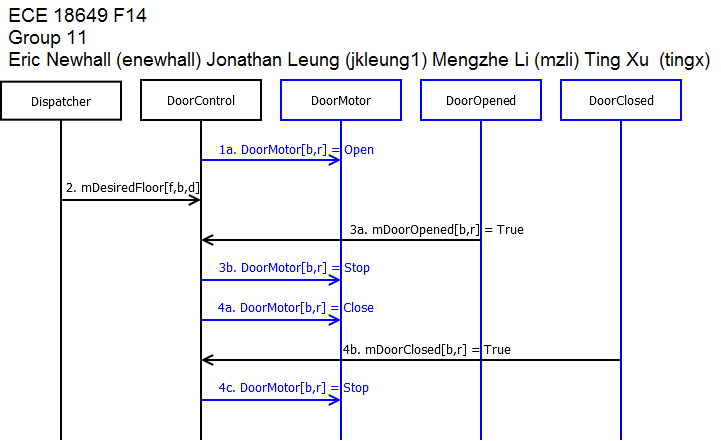
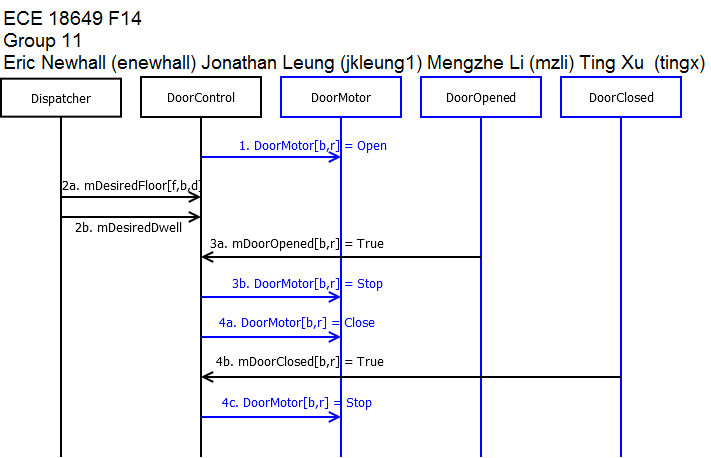
Update scenario 9A to send mDwellTime.

Changed region(s): [[0.0, 0.0, 0.9902, 1.0]]

diff --git a/portfolio/scen_sd/scen_sd.html b/portfolio/scen_sd/scen_sd.html
@@ -523,7 +523,7 @@ doors close on a hallway. </h3>
 <h3> Scenario: </h3>
 <ol start="1" type="1">
   <li>Door Opening </li>
-  <li>Car recieves desired floor </li>
+  <li>Car recieves desired floor &amp; desired dwell</li>
   <li>Door Open </li>
   <li>Door Closes </li>
 </ol>
@@ -535,7 +535,7 @@ doors close on a hallway. </h3>
 </ul>
 <h3> Sequence Diagram: </h3>
 <p> <a href="sd9a.png"><img src="sd9a.png" alt="9A" name="_x0000_i1027"
- style="border: 0px solid ; width: 721px; height: 441px;"></a> </p>
+ style="border: 0px solid ; width: 711px; height: 458px;"></a> </p>
 <br>
 </div>
 </body>
